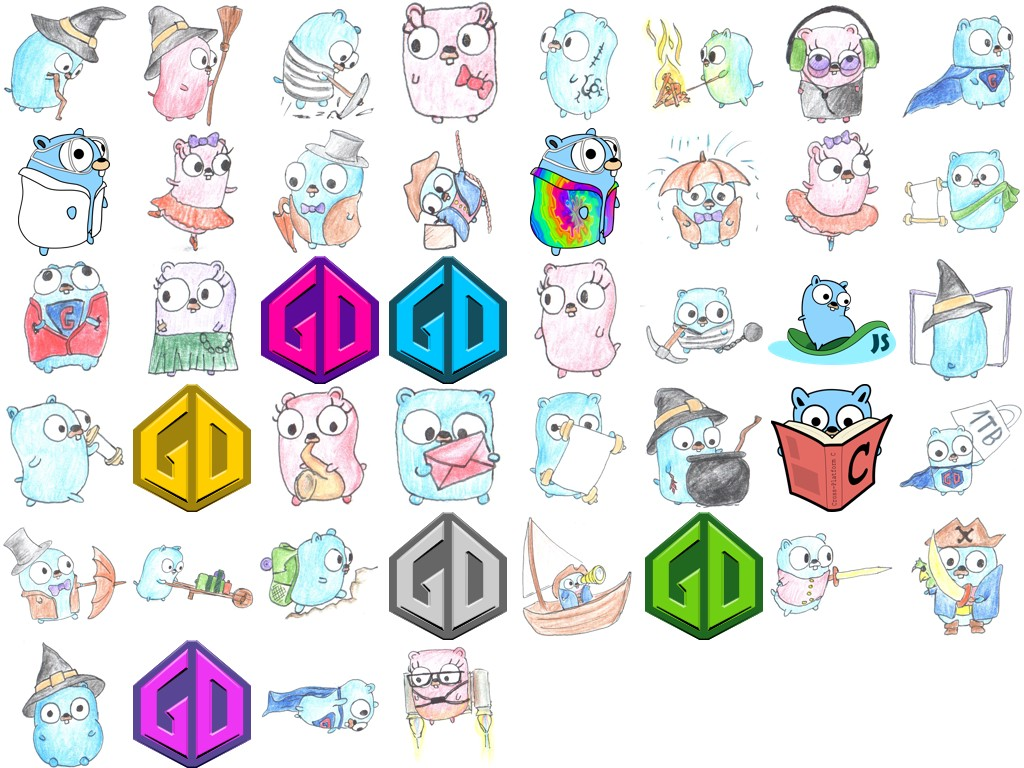
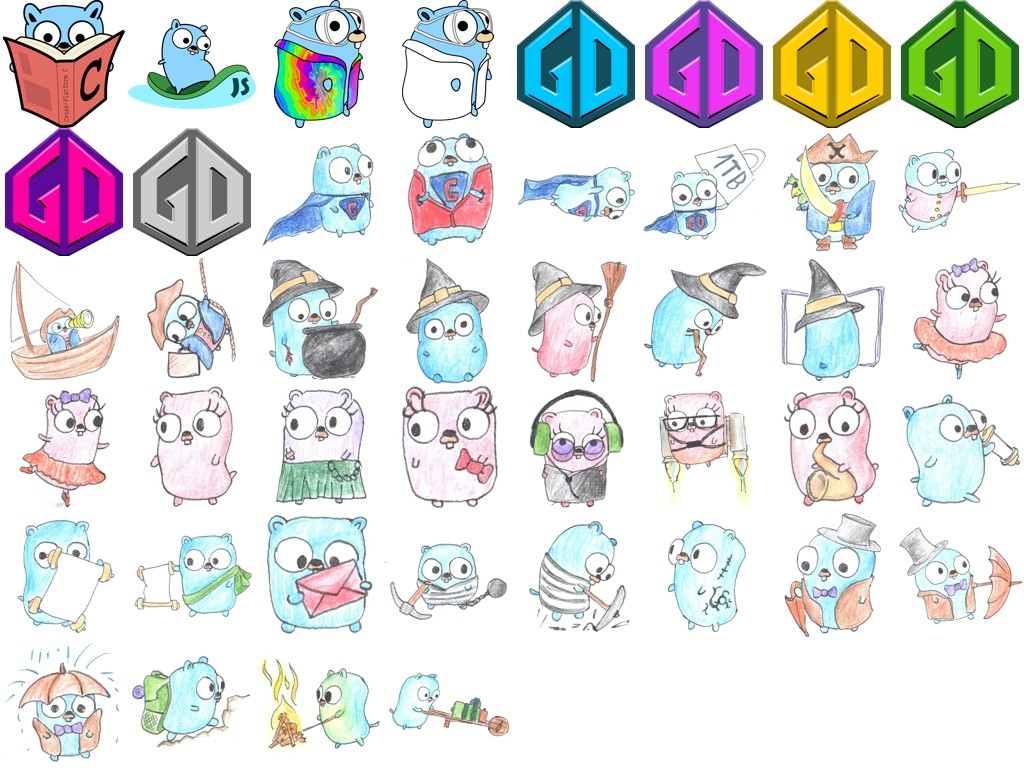
Sort collage images by date.

diff --git a/collage.go b/collage.go
@@ -3,9 +3,11 @@ package main
 import (
 	"flag"
 	"log"
-	"math/rand"
 	"os"
 	"path/filepath"
+	"sort"
+	"strings"
+	"time"
 
 	"image"
 	"image/color"
@@ -21,6 +23,17 @@ var (
 	cellsize = flag.Int("s", 128, "cell width/height")
 	output   = flag.String("o", "collage.jpg", "output file")
 )
+
+type Item struct {
+	Name  string
+	Image image.Image
+}
+
+type Items []Item
+
+func (xs Items) Len() int           { return len(xs) }
+func (xs Items) Swap(i, j int)      { xs[i], xs[j] = xs[j], xs[i] }
+func (xs Items) Less(i, j int) bool { return xs[i].Name < xs[j].Name }
 
 func main() {
 	flag.Parse()
@@ -44,20 +57,25 @@ func main() {
 		if (filepath.Ext(path) != ".png" && filepath.Ext(path) != ".jpg") || path == *output {
 			return nil
 		}
+		if strings.Contains(path, ".sketch.") {
+			return nil
+		}
 
 		files = append(files, filepath.Join(dir, path))
 		return nil
 	})
 
-	ordered := []image.Image{}
+	ordered := Items{}
 	for _, path := range files {
 		file, err := os.Open(path)
 		if err != nil {
 			log.Println(path, err)
 			continue
 		}
+		stat, _ := file.Stat()
 		m, _, err := image.Decode(file)
 		file.Close()
+
 		if err != nil {
 			continue
 		}
@@ -65,12 +83,17 @@ func main() {
 		if sz.X < 64 || sz.Y < 64 {
 			continue
 		}
-		ordered = append(ordered, m)
+		ordered = append(ordered, Item{
+			Name:  stat.ModTime().Format(time.RFC3339),
+			Image: m,
+		})
 	}
 
+	sort.Sort(ordered)
+
 	images := make([]image.Image, len(ordered))
-	for src, dst := range rand.Perm(len(ordered)) {
-		images[dst] = ordered[src]
+	for i, item := range ordered {
+		images[i] = item.Image
 	}
 
 	cols := *colnum
